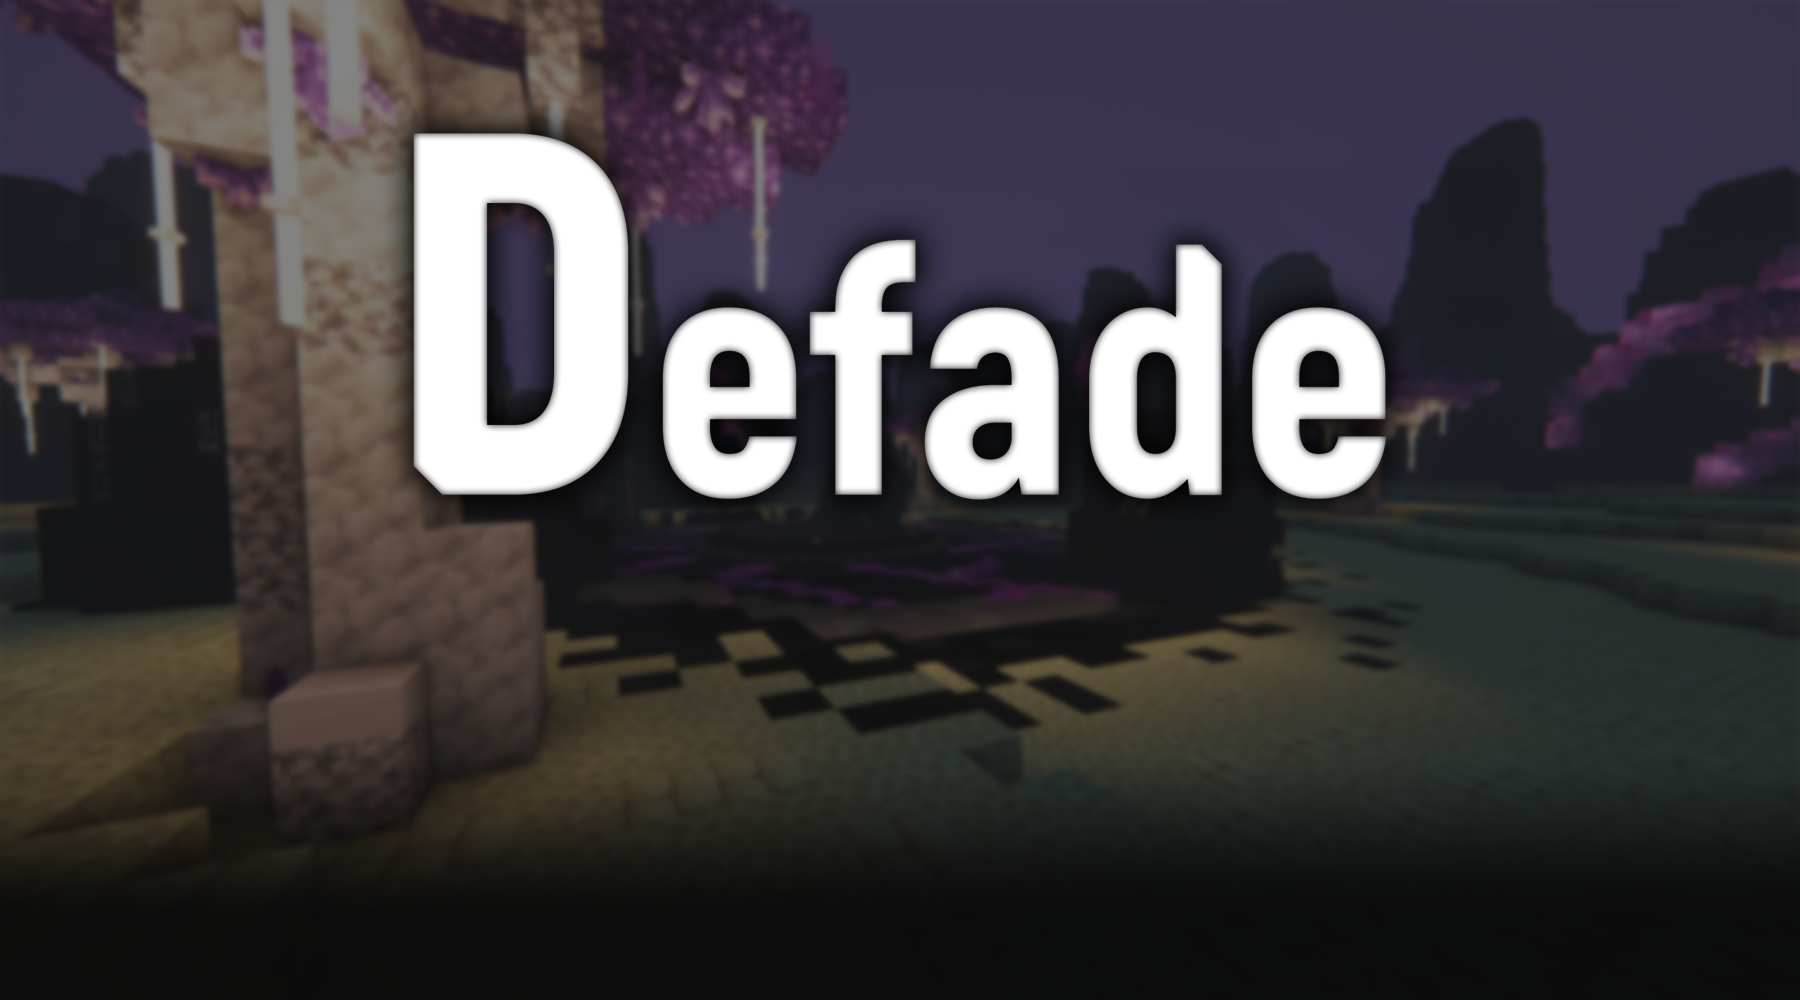
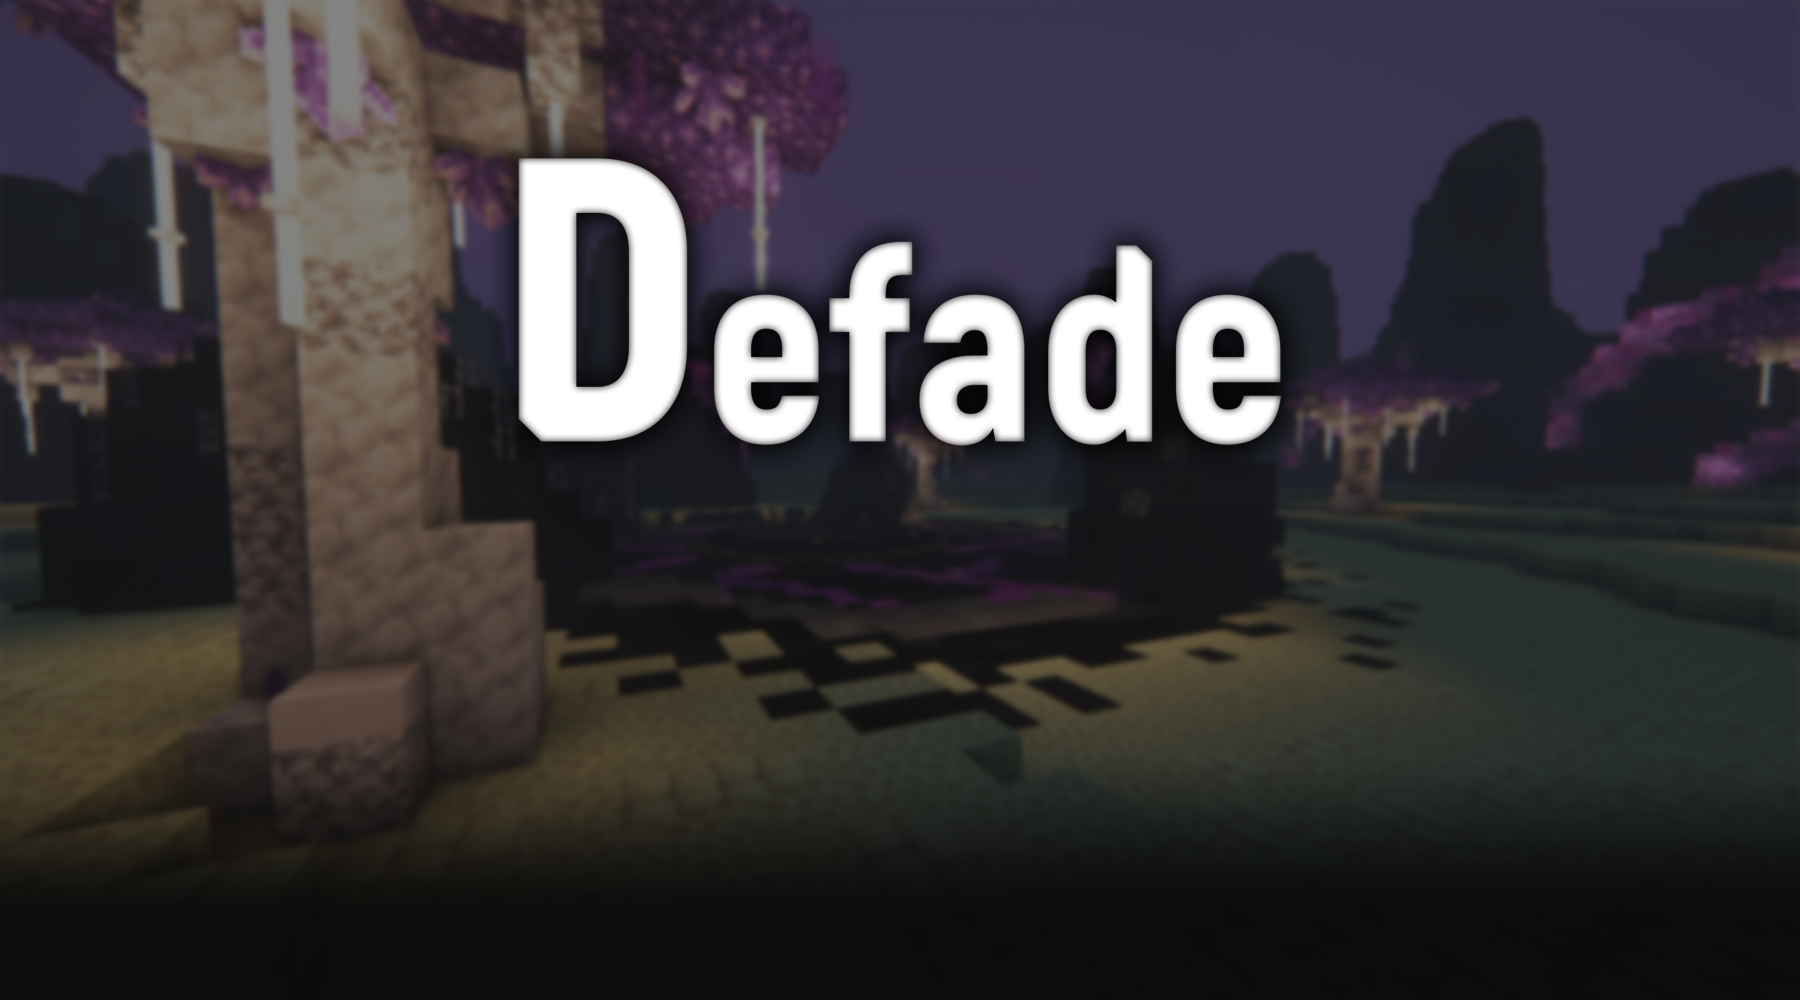
Centered Image

Changed region(s): [[0.2178, 0.093, 0.7778, 0.527]]

diff --git a/index.html b/index.html
@@ -1,4 +1,5 @@
 <html lang="fr" data-color-scheme="dark">
+
 <head>
     <link rel="stylesheet" href="style.css">
     <link rel="icon" type="image/jpg" href="favicon.jpg" />
@@ -6,10 +7,19 @@
 </head>
 
 <body>
-    
-    <p><p style="width:fit-content; height: auto; object-fit: center;"><img src="Defade Banner Website.png"></p>
+    <div class="img-container"></div>
+    <style>
+        .img-container{
+	background-image: url("Defade Banner Website.png");
+	background-size: cover;
+	background-position: center;
+	height: 100%; width: auto;
+}
+    </style>
+        
     <div class="static">
-        <p style="text-align: center; font-size: 18px; padding-right: 3%;"><b>Defade</b> is an innovating infrastructure for a minecraft
+        <p style="text-align: center; font-size: 18px; padding-right: 3%;"><b>Defade</b> is an innovating infrastructure
+            for a minecraft
             1.19 mini-game server.</p>
         <p style="text-align: center; padding-right: 3%;">
             <a href="https://github.com/Defade-Network/" target="_blank" rel="noopener">
@@ -83,6 +93,7 @@
             <li>Jump (minigame) : <span style="color: #ff3d3d;">TODO ❌</span></li>
         </ul>
         <p>&nbsp;</p>
-    </div></p>
+    </div>
 </body>
+
 </html>
